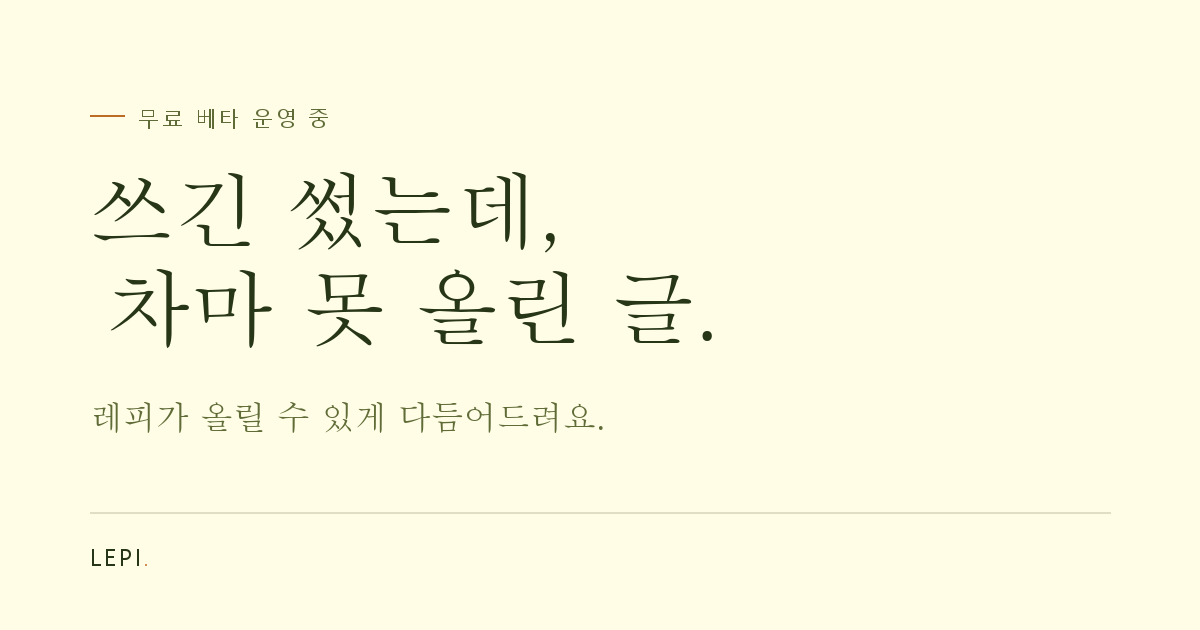
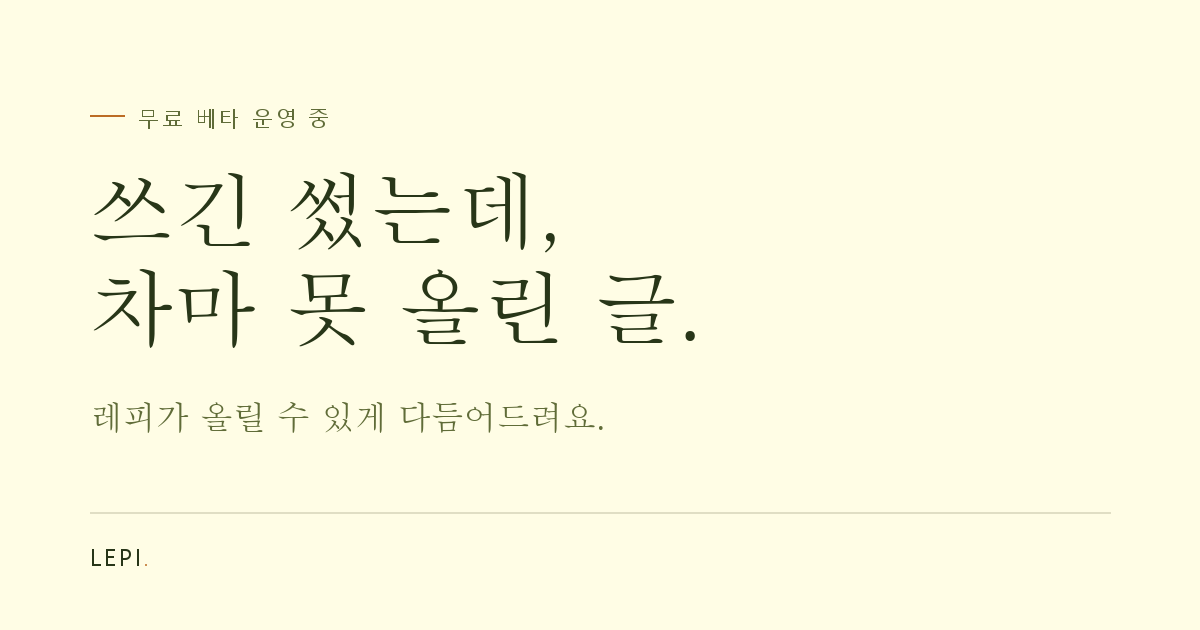
fix(landing): 히어로 제목 둘째 줄의 들여쓰기를 없앤다
.hero-h1 .indent { padding-left: 0.2em }로 "차마 못 올린 글."만 64px 기준
12.8px 밀려 있었다. 최초 커밋부터 있던 값인데 커밋 메시지에도 주석에도
근거가 남아 있지 않다.

여태 보이지 않았던 것은 히어로 블록 전체가 페이지 왼쪽 선에서 밀려 있어
첫 줄부터 이미 어긋나 있었기 때문이다. 74c3509에서 컨테이너를 고쳐 첫 줄이
nav 로고·섹션 제목과 한 선에 놓이자, 둘째 줄만 혼자 튀어나온 것이 드러났다.

0.2em은 의도적인 계단 배치로 읽히기에는 너무 작아서 군더더기 공백처럼
보인다. 왼쪽 선을 맞춰온 그동안의 작업(e317718, faff5d2, 74c3509)과도
어긋난다.

폭 계산 주석도 함께 고쳤다 — 들여쓰기가 빠져 7.0em이 아니라 6.8em이다.
상한 64px은 그대로 유효하다(오히려 여유가 생겼다).

og 이미지도 같은 들여쓰기를 복제해두었으므로 다시 만들어 맞춘다. 이전
이미지는 배포 전이라 크롤러가 가져간 적이 없어 캐시 문제는 없다.

Changed region(s): [[0.3392, 0.4222, 0.6167, 0.5429], [0.0925, 0.4222, 0.3083, 0.5429]]

diff --git a/mission_A1-3/index.html b/mission_A1-3/index.html
@@ -239,7 +239,7 @@
     }
     /* 두 줄이 각각 한 줄로 유지되도록 크기를 제한한다.
        왼쪽 칸은 최대 488px(컨테이너 1120 − 패딩 64 − 갭 80, ÷2)이고
-       "차마 못 올린 글."은 들여쓰기 포함 약 7.0em이 필요하다 → 상한 64px.
+       "차마 못 올린 글."은 약 6.8em이 필요하다 → 상한 64px.
        vw 계수도 900~1120px 구간에서 같은 제약을 받으므로 함께 낮춘다. */
     .hero-h1 {
       font-family: var(--serif);
@@ -248,7 +248,6 @@
       letter-spacing: -0.02em; margin-bottom: 24px;
     }
     .hero-h1 em { font-style: normal; display: block; }
-    .hero-h1 .indent { padding-left: 0.2em; }
     /* 둘째 줄 "레피가 올릴 수 있게 다듬어드려요."가 약 15.3em이라
        27px × 15.3 ≈ 413px. 폭 480px 안에 한 줄로 들어간다. */
     .hero-promise {
@@ -742,7 +741,7 @@
         </div>
         <h1 class="hero-h1">
           <em>쓰긴 썼는데,</em>
-          <em class="indent">차마 못 올린 글.</em>
+          <em>차마 못 올린 글.</em>
         </h1>
         <!-- 줄바꿈을 의미 단위로 고정한다. 자동 줄바꿈에 맡기면
              "올릴 수 / 있게"처럼 구가 갈라진다. -->
